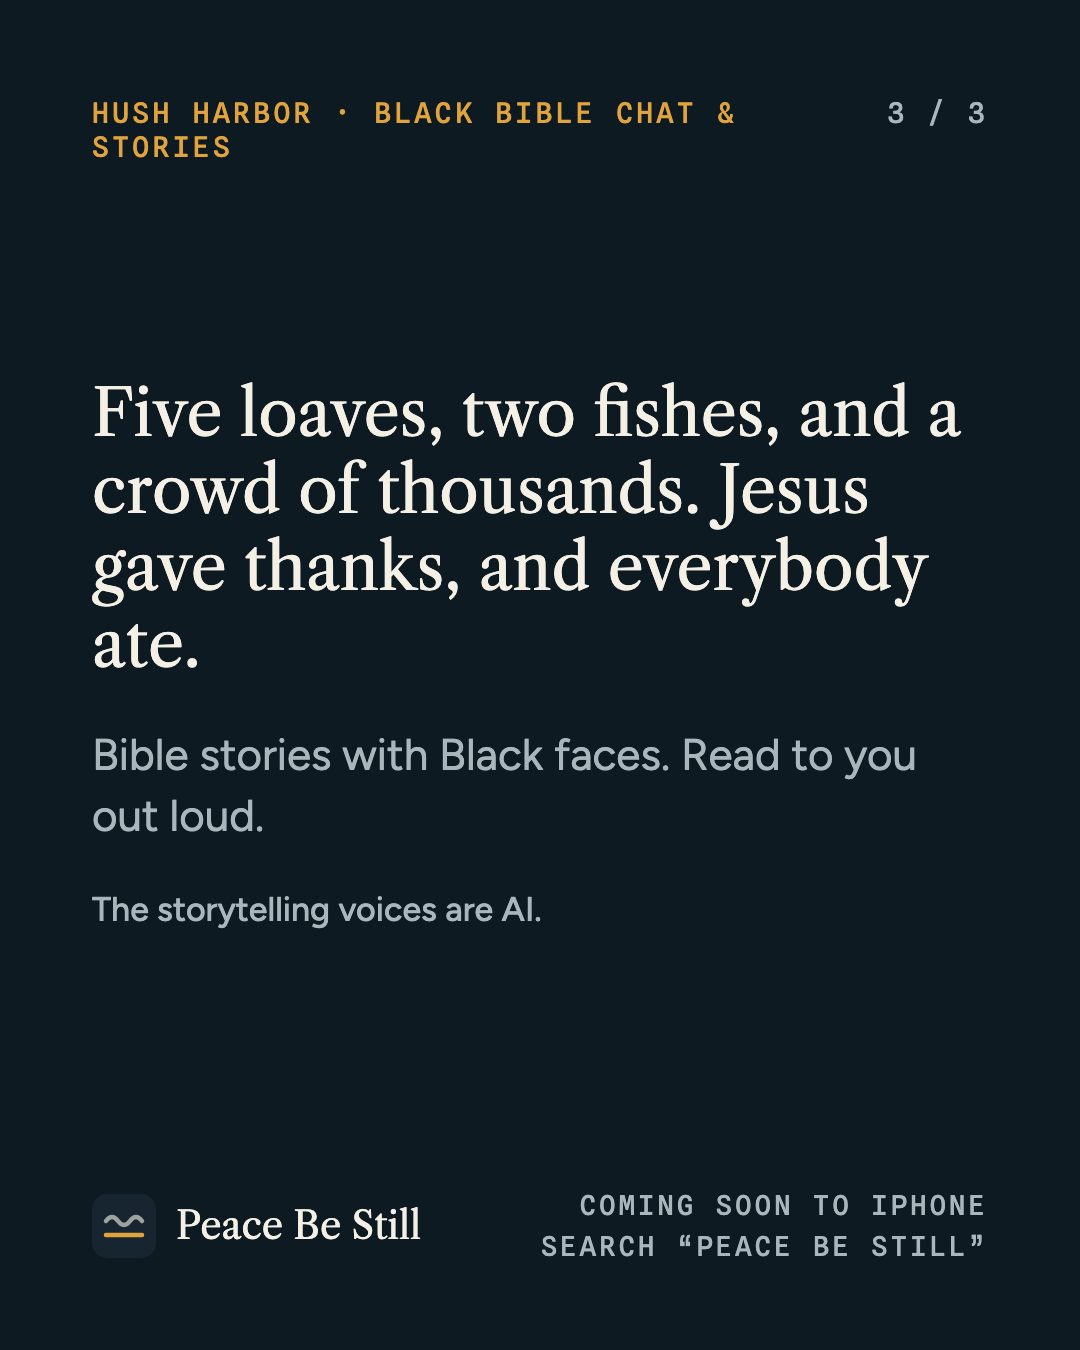
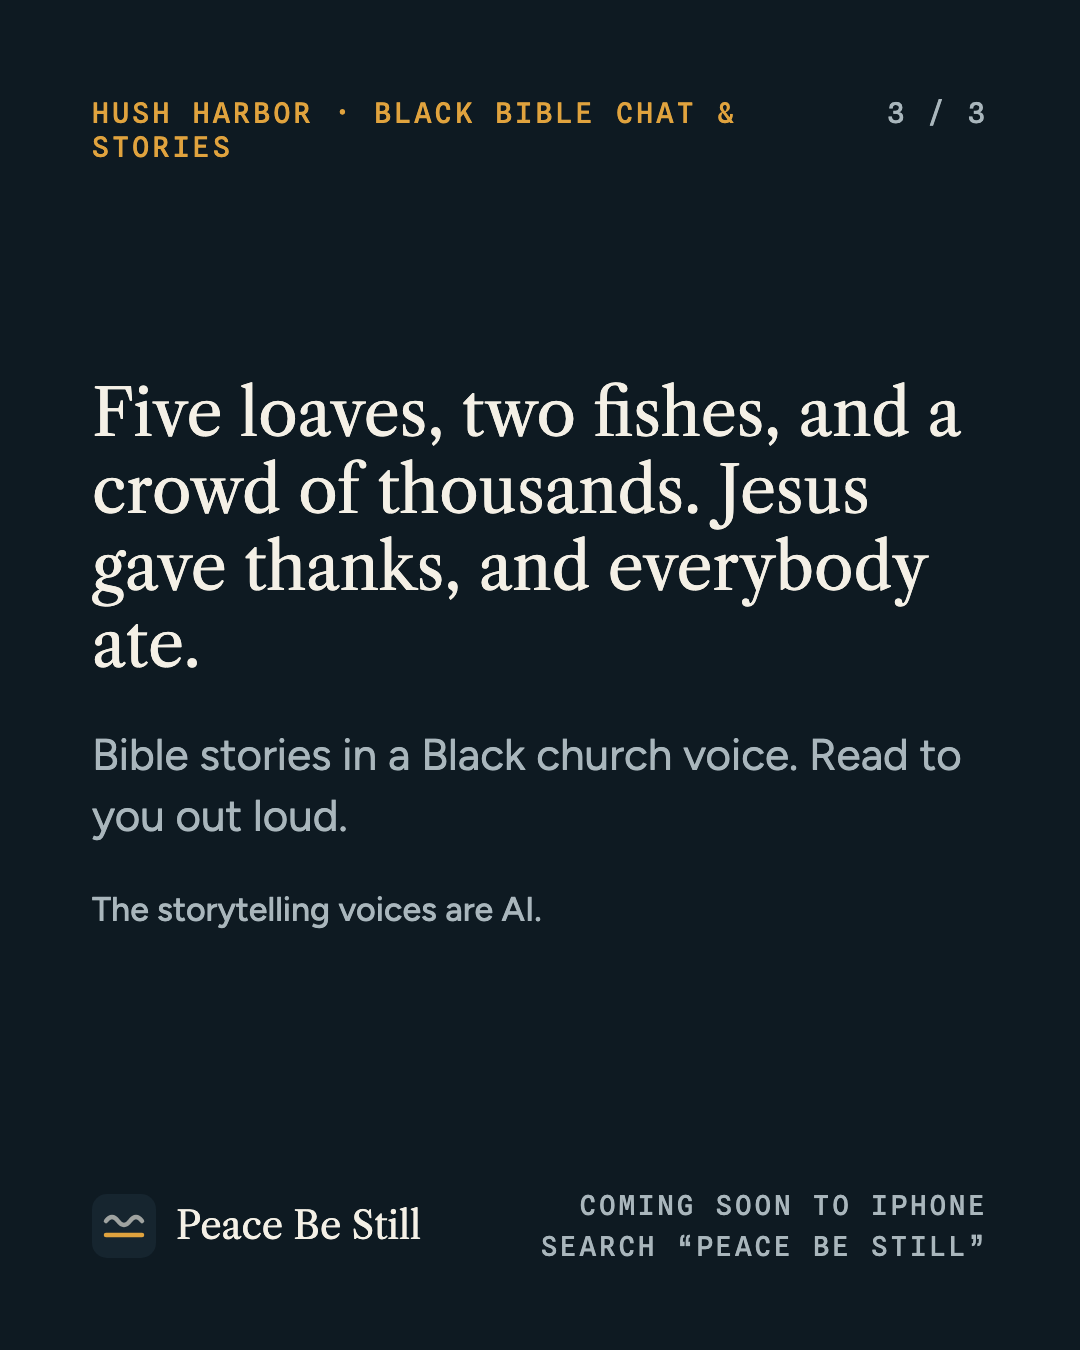
Spanish home and store events: no drawn-faces wording; story-claims test (with 'dibujad', data/drafts, store) on this PR too
Claude-Session: https://claude.ai/code/session_01CJ98gQuotzmQekevoSTPiy

Changed region(s): [[0.0917, 0.5289, 0.8861, 0.6222]]

diff --git a/site/public/es/index.html b/site/public/es/index.html
@@ -127,7 +127,7 @@
       <div class="jr"><span class="art"><svg width="38" height="30" viewBox="0 0 38 30" fill="none" aria-hidden="true"><path d="M9 24V12l10-6 10 6v12" stroke="#E0A33E" stroke-width="2" stroke-linecap="round" stroke-linejoin="round"/><path d="M3 26h32" stroke="#F4F0E6" stroke-width="1.6" stroke-linecap="round"/></svg></span>
         <span class="txt"><span class="door-lab">Palabra de Dios · en español</span><h3>Mi Refugio · Biblia y Chat en Español</h3><p class="muted">Todo el camino en español: chat, historias y Salmos susurrados, con la Reina-Valera 1909. “Esperanza mía, y castillo mío” (Salmo 91:2).</p></span></div>
       <div class="jr"><span class="art"><svg width="38" height="30" viewBox="0 0 38 30" fill="none" aria-hidden="true"><path d="M4 22c4-8 10-12 15-12s11 4 15 12" stroke="#E0A33E" stroke-width="2" stroke-linecap="round"/><circle cx="19" cy="9" r="3" fill="#F4F0E6"/><path d="M4 26h30" stroke="#F4F0E6" stroke-width="1.6" stroke-linecap="round"/></svg></span>
-        <span class="txt"><span class="door-lab">Palabra de Dios · en inglés</span><h3 lang="en">Hush Harbor · Black Bible Chat &amp; Stories</h3><p class="muted">Habla las cosas como lo harías con tu familia, con una voz de iglesia negra, y lee cada día una historia bíblica dibujada con rostros y nombres negros.</p></span></div>
+        <span class="txt"><span class="door-lab">Palabra de Dios · en inglés</span><h3 lang="en">Hush Harbor · Black Bible Chat &amp; Stories</h3><p class="muted">Habla las cosas como lo harías con tu familia, con una voz de iglesia negra, y lee cada día una historia bíblica contada con esa voz.</p></span></div>
       <div class="jr"><span class="art"><svg width="38" height="30" viewBox="0 0 38 30" fill="none" aria-hidden="true"><path d="M3 12c5-6 9 6 16 0s11 6 16 0" stroke="#F4F0E6" stroke-width="1.6" stroke-linecap="round"/><path d="M3 22h32" stroke="#E0A33E" stroke-width="2" stroke-linecap="round"/></svg></span>
         <span class="txt"><span class="door-lab">Palabra de Dios</span><h3 lang="en">Psalm Nights · Whispered Scripture for Sleep</h3><p class="muted">Salmos leídos en susurro a la hora de dormir, con un temporizador que baja la voz poco a poco. La primera noche es gratis, luego una por semana.</p></span></div>
       <div class="jr"><span class="art"><svg width="38" height="30" viewBox="0 0 38 30" fill="none" aria-hidden="true"><path d="M6 24V12M19 24V6M32 24V14" stroke="#E0A33E" stroke-width="2" stroke-linecap="round"/><path d="M3 26h32" stroke="#F4F0E6" stroke-width="1.6" stroke-linecap="round"/></svg></span>

diff --git a/store/custom/hush-harbor.md b/store/custom/hush-harbor.md
@@ -4,10 +4,10 @@ Door: God's Word
 Deep link: https://peacebestillapp.com/open/hush-harbor
 Keywords locale: en-US
 Keywords assigned: black,women,stories,kids
-Promotional text: Talk it through in a Black church voice, with every verse word for word from the King James Bible. A new story with Black faces every day. Free to start, no trial.
+Promotional text: Talk it through in a Black church voice, with every verse word for word from the King James Bible. A new Bible story every day. Free to start, no trial.
 Screenshot 1: Black Bible Chat, in a Black church voice
 Screenshot 1 shows: Hush Harbor chat (mock-up screen 3)
-Screenshot 2: Bible Stories with Black Faces
-Screenshot 2 shows: Today's story card, full size (screen 6 story card)
+Screenshot 2: A new Bible story every day
+Screenshot 2 shows: Today's story, read in the app
 Screenshot 3: Every verse word for word, King James
 Screenshot 3 shows: The verse card inside chat (screen 3), PHI 4:19 KJV from store/scripture.md

diff --git a/store/events.md b/store/events.md
@@ -16,12 +16,12 @@ Dates: 4 to 24 Jan 2027 (the new-year 21 days of prayer)
 Short description: 21 days of stories, chat and prayer
 Long description: Churches and friends go through 21 days of Hush Harbor together: a story, a word and a prayer each day.
 
-## Bible Stories with Black Faces
+## Black History Month Stories
 Door: God's Word
 Badge: Premiere
 Dates: 1 to 28 Feb 2027 (Black History Month)
-Short description: A new illustrated story every day in February
-Long description: Moses, Esther, Daniel and Ruth, drawn with Black faces and told with the King James text beside each one.
+Short description: A new Bible story every day in February
+Long description: Moses, Esther, Daniel and Ruth, told in a Black church voice with the KJV beside each.
 
 ## Lent Psalm Nights
 Door: God's Word
